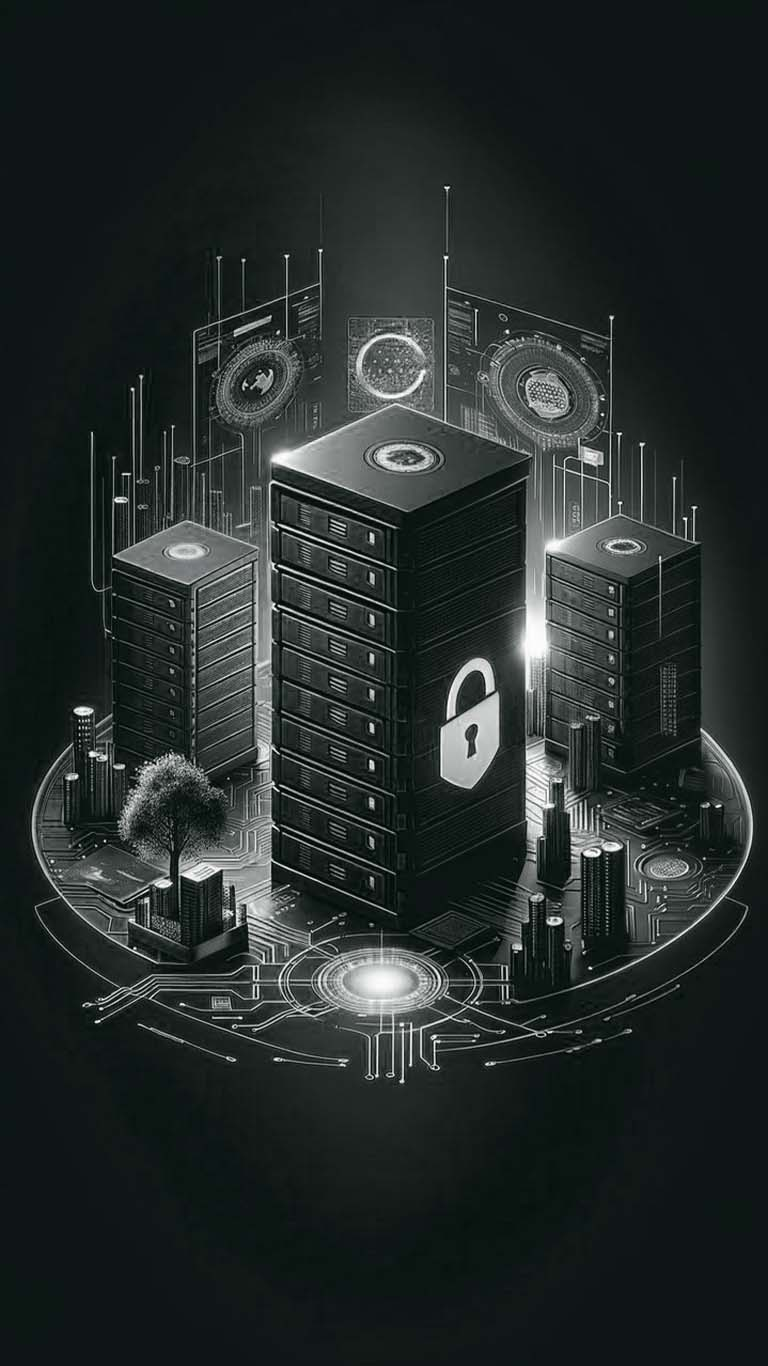
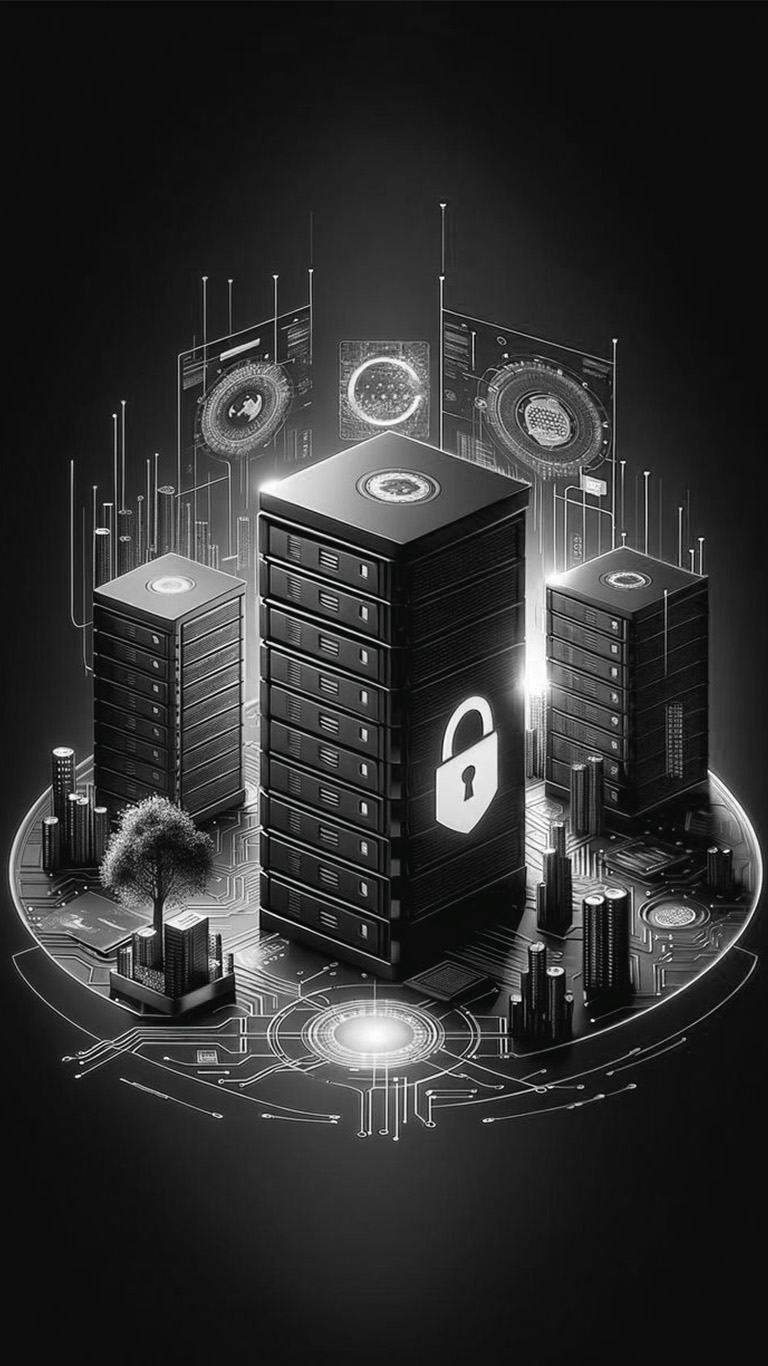
add pricing section

diff --git a/index.html b/index.html
@@ -68,7 +68,7 @@
                     <div class="col-12">
                         <div class="text-center">
                             <h1 class="hr-bottom text-uppercase fs-1 fw-bold pb-3">We Are CyberShield</h1>
-                            <p class="text-two w-75 mx-auto mt-4 text-center">We help businesses protect their digital assets with advanced cybersecurity solutions. Our team delivers reliable protection against cyber threats, ensuring your data, systems, and networks remain secure around the clock.</p>
+                            <p class="text-two mx-auto mt-4 text-center">We help businesses protect their digital assets with advanced cybersecurity solutions. Our team delivers reliable protection against cyber threats, ensuring your data, systems, and networks remain secure around the clock.</p>
                         </div>
                     </div>
                     <div class="col-lg-4 col-md-6 col-sm-12">
@@ -102,7 +102,218 @@
             </div>
         </section>
         <!-- PRICING -->
-        <section id="pricing"></section>
+        <section id="pricing" class="pricing">
+            <div class="container-fluid text-lg-start text-center p-5">
+                <div class="row g-0 align-items-center justify-content-center text-white">
+                    <div class="col-12">
+                        <div class="text-center">
+                            <h1 class="hr-bottom text-uppercase fs-1 fw-bold pb-3">Our Security Plans</h1>
+                            <p class="text-two  mx-auto mt-4 text-center">Choose the cybersecurity plan that best fits your business. From basic protection to enterprise-grade security, we keep your digital assets safe.</p>
+                        </div>
+                    </div>
+                    <div class="col-lg col-sm-12 shadow">
+                         <table class="table table-dark table-striped text-center">
+                            <thead>
+                                <tr>
+                                    <th class="border-0">Starter</th>
+                                </tr>
+                            </thead>
+                            <tbody>
+                                <tr>
+                                    <td class="border-0">
+                                        <h1>$19</h1>
+                                        <p class="text-one">/month</p>
+                                    </td>
+                                </tr>
+                                <tr>
+                                    <td class="border-0">Threat Monitoring</td>
+                                </tr>
+                                <tr>
+                                    <td class="border-0">Firewall Protection</td>
+                                </tr>
+                                <tr>
+                                    <td class="border-0">Malware Scanning</td>
+                                </tr>
+                                <tr>
+                                    <td class="border-0">Email Security</td>
+                                </tr>
+                                <tr>
+                                    <td class="border-0">Monthly Reports</td>
+                                </tr>
+                                <tr>
+                                    <td class="border-0">24/7 Support</td>
+                                </tr>
+                            </tbody>
+                            <tfoot>
+                                <tr>
+                                    <td><button type="button" class="btn px-4 py-2 bg-one text-white table-button-hover">Get Started</button></td>
+                                </tr>
+                            </tfoot>
+                        </table>
+                    </div>
+                    <div class="col-lg col-sm-12 shadow">
+                         <table class="table table-dark table-striped text-center">
+                            <thead>
+                                <tr>
+                                    <th class="border-0">Professional</th>
+                                </tr>
+                            </thead>
+                            <tbody>
+                                <tr>
+                                    <td class="border-0">
+                                        <h1>$49</h1>
+                                        <p class="text-one">/month</p>
+                                    </td>
+                                </tr>
+                                <tr>
+                                    <td class="border-0">Everything in Starter</td>
+                                </tr>
+                                <tr>
+                                    <td class="border-0">Network Security</td>
+                                </tr>
+                                <tr>
+                                    <td class="border-0">Cloud Protection</td>
+                                </tr>
+                                <tr>
+                                    <td class="border-0">Real-Time Alerts</td>
+                                </tr>
+                                <tr>
+                                    <td class="border-0">Weekly Reports</td>
+                                </tr>
+                                <tr>
+                                    <td class="border-0">Priority Support</td>
+                                </tr>
+                            </tbody>
+                            <tfoot>
+                                <tr>
+                                    <td><button type="button" class="btn px-4 py-2 bg-one text-white table-button-hover">Choose Plan</button></td>
+                                </tr>
+                            </tfoot>
+                        </table>
+                    </div>
+                    <div class="col-lg col-sm-12 shadow featured-table">
+                         <table class="table table-dark table-striped text-center">
+                            <thead>
+                                <tr>
+                                    <th class="border-0">Business</th>
+                                </tr>
+                            </thead>
+                            <tbody>
+                                <tr>
+                                    <td class="border-0">
+                                        <h1>$99</h1>
+                                        <p class="text-one">/month</p>
+                                    </td>
+                                </tr>
+                                <tr>
+                                    <td class="border-0">Advanced Threat Detection</td>
+                                </tr>
+                                <tr>
+                                    <td class="border-0">Endpoint Protection</td>
+                                </tr>
+                                <tr>
+                                    <td class="border-0">Data Encryption</td>
+                                </tr>
+                                <tr>
+                                    <td class="border-0">Security Audits</td>
+                                </tr>
+                                <tr>
+                                    <td class="border-0">Incident Response</td>
+                                </tr>
+                                <tr>
+                                    <td class="border-0">24/7 Premium Support</td>
+                                </tr>
+                            </tbody>
+                            <tfoot>
+                                <tr>
+                                    <td><button type="button" class="btn px-4 py-2 bg-one text-white table-button-hover">Choose Plan</button></td>
+                                </tr>
+                            </tfoot>
+                        </table>
+                    </div>
+                    <div class="col-lg col-sm-12 shadow">
+                         <table class="table table-dark table-striped text-center">
+                            <thead>
+                                <tr>
+                                    <th class="border-0">Enterprise</th>
+                                </tr>
+                            </thead>
+                            <tbody>
+                                <tr>
+                                    <td class="border-0">
+                                        <h1>$199</h1>
+                                        <p class="text-one">/month</p>
+                                    </td>
+                                </tr>
+                                <tr>
+                                    <td class="border-0">Complete Cyber Defense</td>
+                                </tr>
+                                <tr>
+                                    <td class="border-0">AI Threat Detection</td>
+                                </tr>
+                                <tr>
+                                    <td class="border-0">Dedicated Security Team</td>
+                                </tr>
+                                <tr>
+                                    <td class="border-0">Cloud & Network Protection</td>
+                                </tr>
+                                <tr>
+                                    <td class="border-0">Compliance Management</td>
+                                </tr>
+                                <tr>
+                                    <td class="border-0">Priority Response</td>
+                                </tr>
+                            </tbody>
+                            <tfoot>
+                                <tr>
+                                    <td><button type="button" class="btn px-4 py-2 bg-one text-white table-button-hover">Contact Us</button></td>
+                                </tr>
+                            </tfoot>
+                        </table>
+                    </div>
+                    <div class="col-lg col-sm-12 shadow">
+                         <table class="table table-dark table-striped text-center">
+                            <thead>
+                                <tr>
+                                    <th class="border-0">Custom</th>
+                                </tr>
+                            </thead>
+                            <tbody>
+                                <tr>
+                                    <td class="border-0">
+                                        <h1>Custom</h1>
+                                        <p class="text-one">Price</p>
+                                    </td>
+                                </tr>
+                                <tr>
+                                    <td class="border-0">Tailored Security Solutions</td>
+                                </tr>
+                                <tr>
+                                    <td class="border-0">Dedicated Security Consultant</td>
+                                </tr>
+                                <tr>
+                                    <td class="border-0">Custom Integrations</td>
+                                </tr>
+                                <tr>
+                                    <td class="border-0">Advanced Monitoring</td>
+                                </tr>
+                                <tr>
+                                    <td class="border-0">Unlimited Devices</td>
+                                </tr>
+                                <tr>
+                                    <td class="border-0">Enterprise Support</td>
+                                </tr>
+                            </tbody>
+                            <tfoot>
+                                <tr>
+                                    <td><button type="button" class="btn px-4 py-2 bg-one text-white table-button-hover">Contact Sales</button></td>
+                                </tr>
+                            </tfoot>
+                        </table>
+                    </div>
+                </div>
+            </div>
+        </section>
         <!-- SERVICES -->
         <section id="services"></section>
         <!-- CONTACT -->

diff --git a/css/style.css b/css/style.css
@@ -27,7 +27,7 @@ a {
 }
 
 .text-two{
-    color: #9CA3AF;
+    color: #d7d9de;
 }
 
 .bg-two{
@@ -69,7 +69,6 @@ a {
     background-size: cover;
     background-attachment: fixed;
     margin-top: 56px;
-    height: 90vh;
 }
 
 .font-size{
@@ -96,6 +95,34 @@ a {
 }
 
 /* PRICING */
+
+.pricing{
+    background:url('../img/bg-2.jpg') no-repeat;
+    background-position: 0% 30%;
+    background-size: cover;
+    background-attachment: fixed;
+}
+
+.table{
+    width: 100%;
+}
+
+.table-button-hover:hover{
+    background-color: #000 !important;
+    color: #fff !important;
+}
+
+
+.featured-table {
+    transform: translateY(-5px);
+}
+
+.table{
+    --bs-table-bg: #2B2B2B;
+    --bs-table-striped-bg: #222222;
+    --bs-table-color: #fff;
+    --bs-table-striped-color: #fff;
+}
 
 /* SERVICES */
 